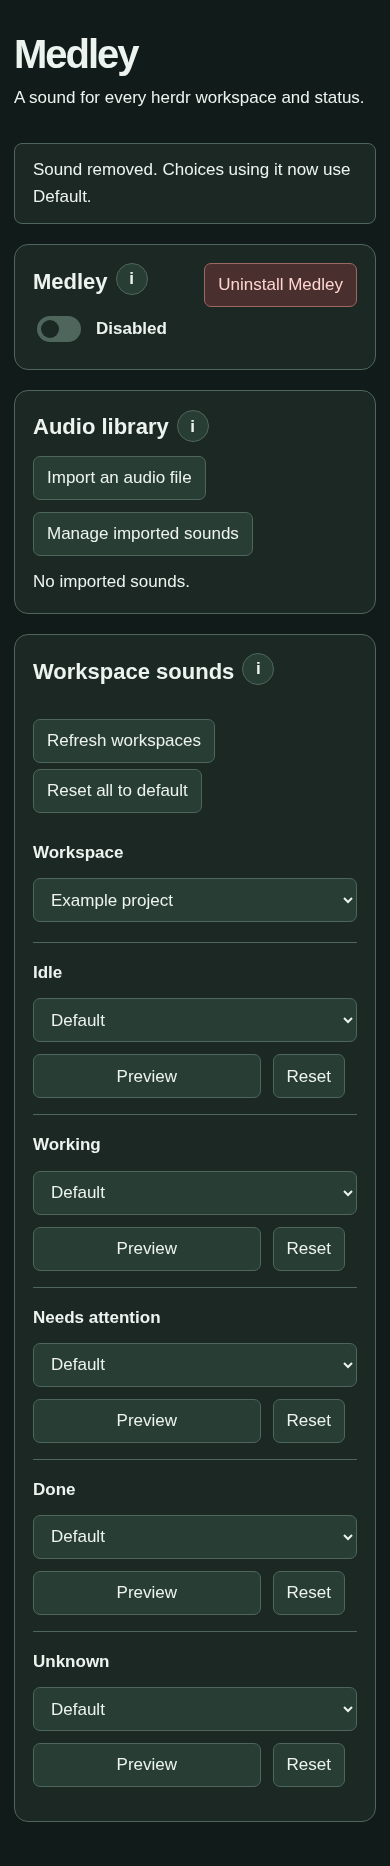
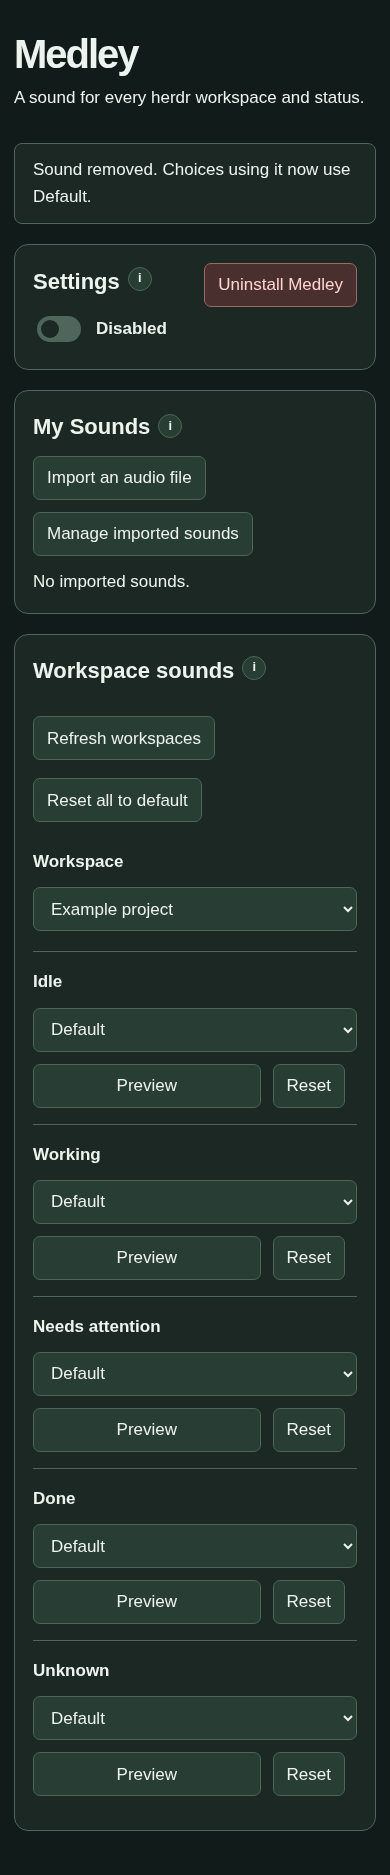
Refine section names, toolbar spacing and info button size

diff --git a/assets/index.html b/assets/index.html
@@ -2,8 +2,8 @@
 <html lang="en"><head><meta charset="utf-8"><meta name="viewport" content="width=device-width, initial-scale=1"><title>Medley · Workspace sounds</title><link rel="stylesheet" href="/style.css"><script defer src="/app.js"></script></head>
 <body><main><header><h1>Medley</h1><p>A sound for every herdr workspace and status.</p></header>
 <p id="feedback" role="status" aria-live="polite" hidden></p><p id="error" role="alert" hidden></p><audio id="player" controls hidden aria-label="Sound preview"></audio>
-<section aria-labelledby="playback-heading"><div class="section-heading"><div class="library-heading"><h2 id="playback-heading">Medley</h2><button class="info-button" type="button" popovertarget="medley-help" aria-label="About Medley">i</button></div><button id="uninstall">Uninstall Medley</button></div><label class="toggle"><input type="checkbox" role="switch" aria-label="Medley enabled" id="enabled"> <span id="enabled-label">Disabled</span></label><div id="medley-help" class="help-popover" popover><p>Medley handles notification sounds while enabled. Disabling or using Uninstall Medley here restores herdr’s previous sound setting. Audio plays on the herdr server’s machine, including for the workspace you are viewing.</p><p>Local settings · No account or cloud service required</p></div></section>
-<section aria-labelledby="library-heading"><div class="library-heading"><h2 id="library-heading">Audio library</h2><button class="info-button" type="button" popovertarget="library-help" aria-label="About audio imports">i</button></div><div id="library-help" class="help-popover" popover>Choose an MP3 or WAV to import it immediately, then select it in any workspace. WAV files convert to MP3. Maximum 20 MB.</div><div class="library-actions"><button id="choose-audio" type="button">Import an audio file</button><input type="file" accept=".mp3,.wav,audio/mpeg,audio/wav" id="upload" aria-label="Import an audio file" hidden><button id="manage-library" aria-expanded="false" aria-controls="library-files">Manage imported sounds</button></div><div id="library-files" hidden></div></section>
+<section aria-labelledby="playback-heading"><div class="section-heading"><div class="library-heading"><h2 id="playback-heading">Settings</h2><button class="info-button" type="button" popovertarget="medley-help" aria-label="About Medley">i</button></div><button id="uninstall">Uninstall Medley</button></div><label class="toggle"><input type="checkbox" role="switch" aria-label="Medley enabled" id="enabled"> <span id="enabled-label">Disabled</span></label><div id="medley-help" class="help-popover" popover><p>Medley handles notification sounds while enabled. Disabling or using Uninstall Medley here restores herdr’s previous sound setting. Audio plays on the herdr server’s machine, including for the workspace you are viewing.</p><p>Local settings · No account or cloud service required</p></div></section>
+<section aria-labelledby="library-heading"><div class="library-heading"><h2 id="library-heading">My Sounds</h2><button class="info-button" type="button" popovertarget="library-help" aria-label="About audio imports">i</button></div><div id="library-help" class="help-popover" popover>Choose an MP3 or WAV to import it immediately, then select it in any workspace. WAV files convert to MP3. Maximum 20 MB.</div><div class="library-actions"><button id="choose-audio" type="button">Import an audio file</button><input type="file" accept=".mp3,.wav,audio/mpeg,audio/wav" id="upload" aria-label="Import an audio file" hidden><button id="manage-library" aria-expanded="false" aria-controls="library-files">Manage imported sounds</button></div><div id="library-files" hidden></div></section>
 <section aria-labelledby="rules-heading"><div class="section-heading"><div class="library-heading"><h2 id="rules-heading">Workspace sounds</h2><button class="info-button" type="button" popovertarget="workspace-help" aria-label="About workspace sounds">i</button></div><div><button id="refresh">Refresh workspaces</button> <button id="reset">Reset all to default</button> <button id="undo" hidden>Undo reset</button></div></div><div id="workspace-help" class="help-popover" popover>Choose a workspace and a status. Changes save immediately. Default follows herdr’s configured completion or attention sound; Working and Unknown are quiet by default.</div>
 <div class="workspace-row"><label for="workspace">Workspace</label><select id="workspace"></select></div><div id="rules"></div></section>
 </main></body></html>

diff --git a/assets/style.css b/assets/style.css
@@ -13,3 +13,5 @@
 input[type=file]{font-size:0;width:132px}input::file-selector-button{font:1.0625rem/1.6 system-ui,sans-serif;margin-right:0}
 
 .library-actions{display:flex;align-items:center;flex-wrap:wrap;gap:12px;margin:12px 0}
+
+.section-heading>div:not(.library-heading){display:flex;align-items:center;flex-wrap:wrap;gap:12px}.info-button{width:24px;min-height:24px;height:24px;font-size:12.75px}

diff --git a/docs/validation.md b/docs/validation.md
@@ -285,3 +285,11 @@ against the current handler and verifies removal/default reset. All 15 Python te
 and Chromium checks passed. Library actions use a wrapping flex row with 12 px gap;
 refreshed desktop capture visually inspected and mobile overflow check passed.
 No real sound was deleted for verification. Fresh settings server opened afterward.
+
+## Section labels and consistent controls — 2026-10-20
+
+Renamed first-box Medley to Settings and Audio library to My Sounds. Toolbar
+buttons now use the same 12 px gap as Preview/Reset. Info buttons and glyphs
+reduced 25%: 32 to 24 px diameter, 17 to 12.75 px type. Native button semantics
+and focus ring retained. Chromium checks passed, synthetic captures refreshed,
+and desktop visually inspected. Mobile overflow and popup keyboard tests passed.
